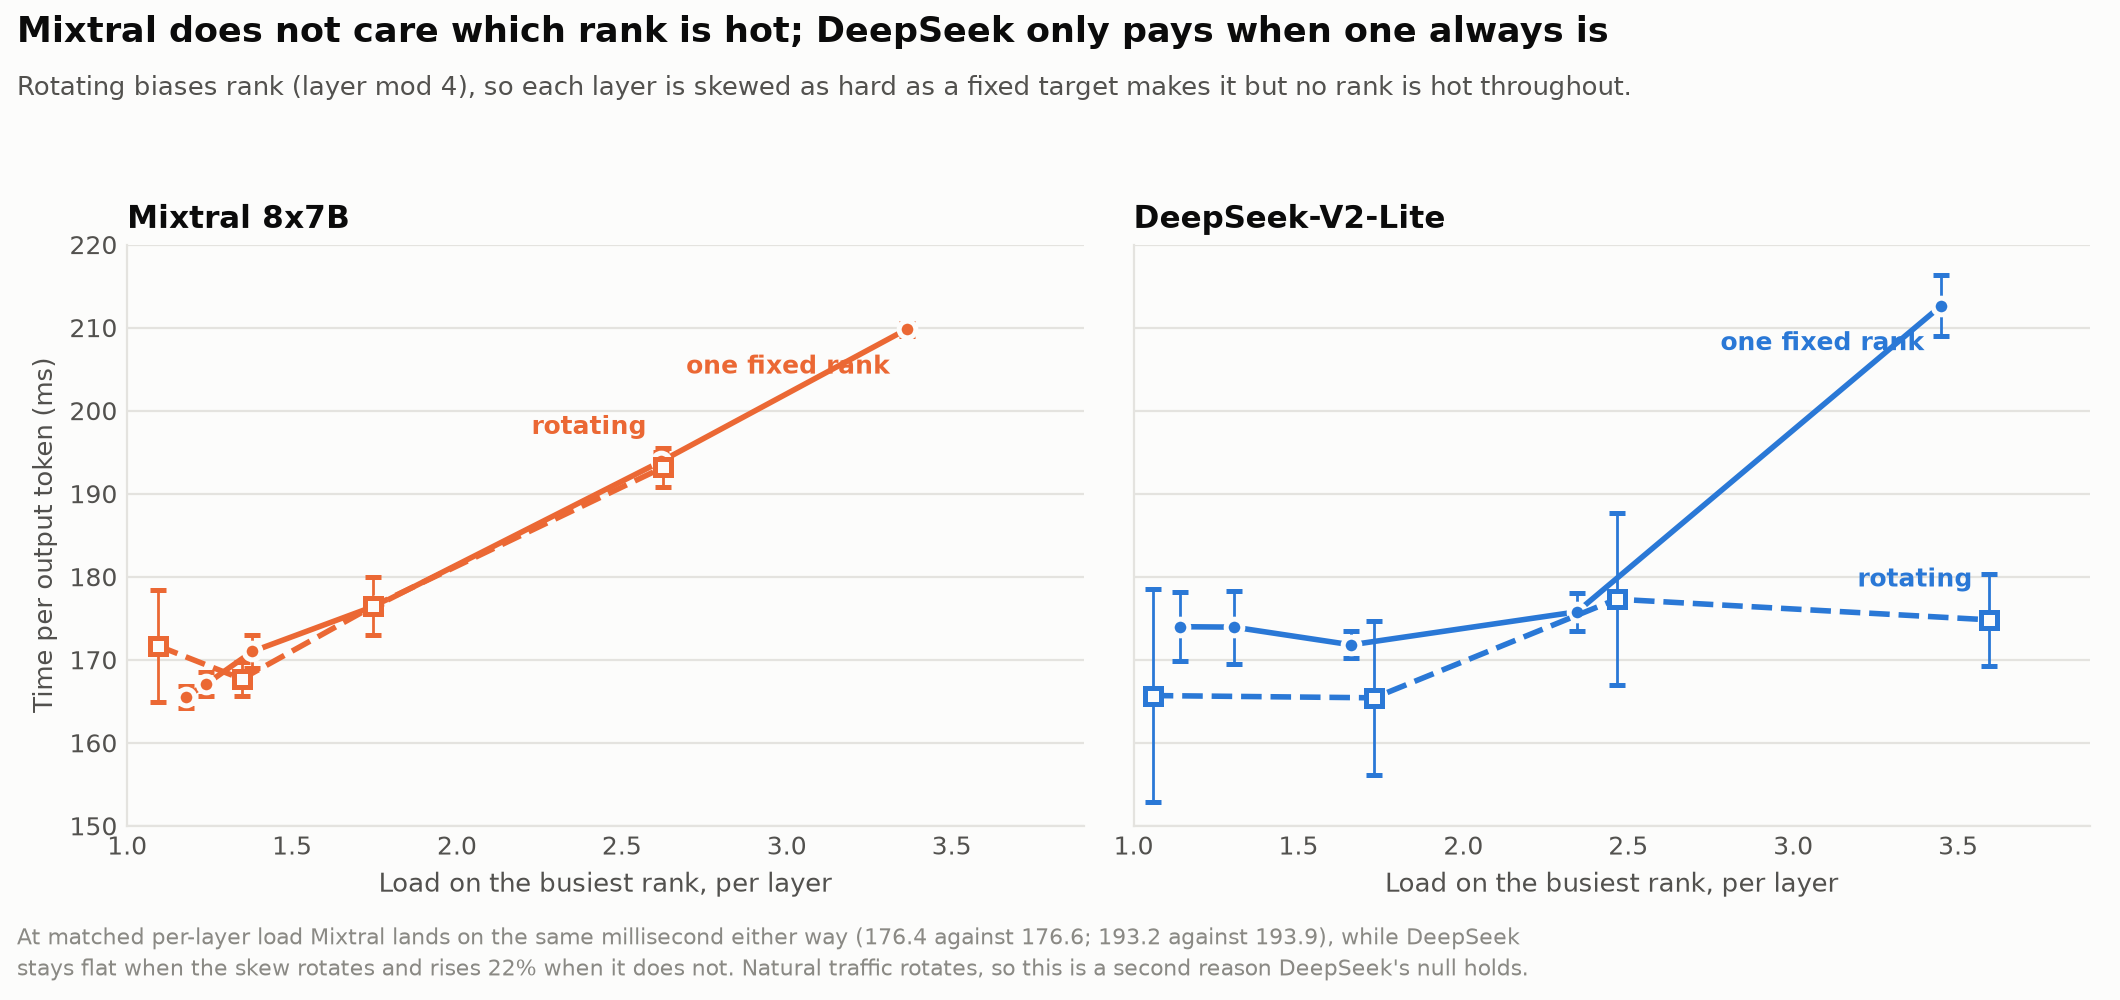
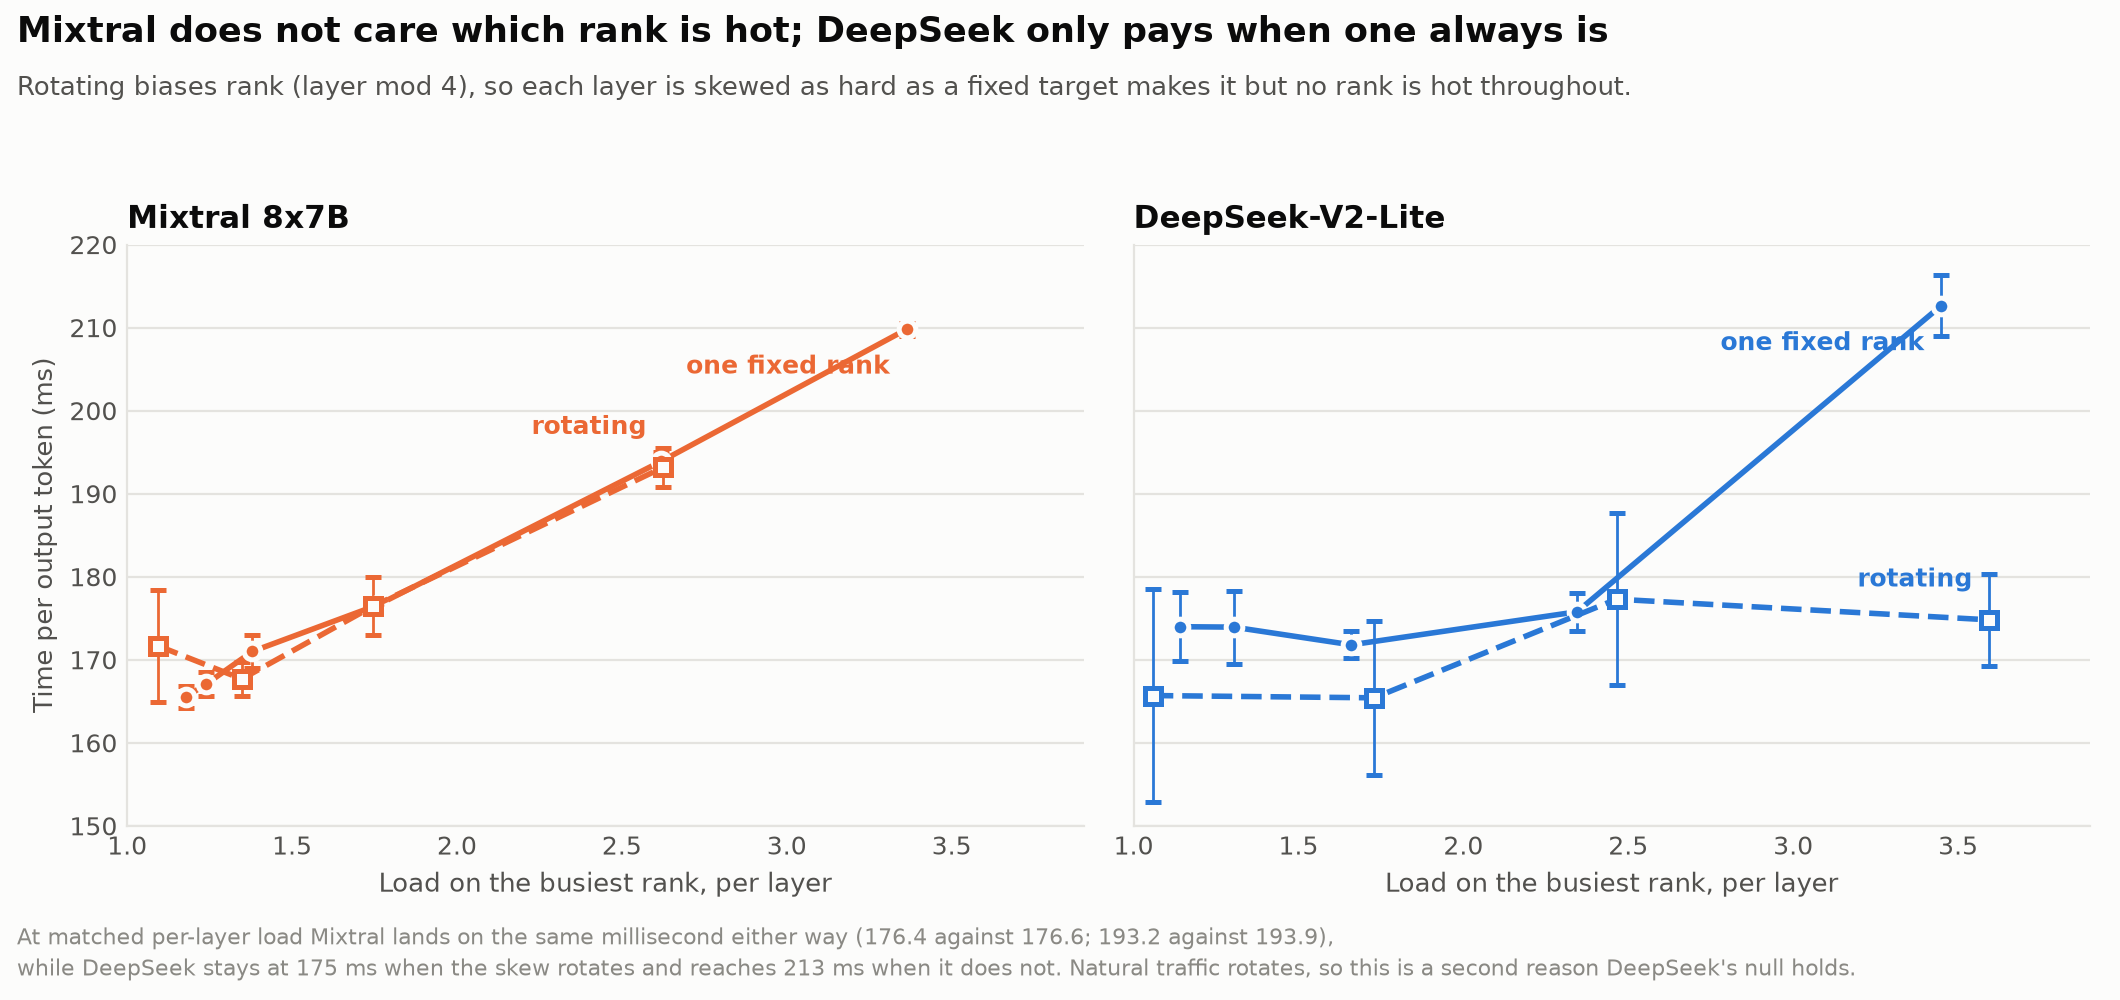
Compute the numbers that were typed into captions and a legend
Auditing the plotting script for hard-coded values after the
natural-traffic row turned out to be invented: layout coordinates and
which runs each panel draws from are fine, but four places carried
measurements as prose, where they could drift from the plot they
describe without anyone noticing.

The instrument figure's legend named the skewed arm's load ("3.5x /
2.6x"); it now reads the calibration, and says 3.4x. The impact-map,
rotating-skew and statistic captions quoted readings that are now
computed from the same rows the figure plots. All four reproduce what was
typed, so nothing was wrong - but a caption that disagrees with its own
plot is worse than no caption, and this removes the way that happens.

Changed region(s): [[0.0, 0.93, 0.8717, 0.992]]

diff --git a/scripts/plot_findings.py b/scripts/plot_findings.py
@@ -238,6 +238,11 @@ def fig_instrument(out, store):
         for p in m["points"]:
             runs.setdefault((model, flag, float(p["value"])), []).append(p["request_summary"]["tpot_ms_mean"])
 
+    cal = calibration()
+    # The legend names the realised load of the skewed arm, which the calibration
+    # measures: typing it would let the legend drift from the experiment.
+    skew_label = "skewed " + " / ".join(
+        f"{cal[m][2.0][0]:.1f}x" for m in ("deepseek-v2", "mixtral") if 2.0 in cal.get(m, {}))
     fig, ax = plt.subplots(figsize=(9.0, 4.6), facecolor=SURFACE)
     style(ax, "", "Time per output token (ms)",
           "Part of the measured cost was our own measurement plugin",
@@ -254,7 +259,7 @@ def fig_instrument(out, store):
             for bi, (v, colour) in enumerate(((lo, COND[0]), (hi, COND[1]))):
                 x = base + (bi - 0.5) * inner
                 ax.bar(x, v.mean(), width, color=colour, zorder=3,
-                       label=("balanced" if bi == 0 else "skewed 3.5x / 2.6x") if (mi, fi) == (0, 0) else None)
+                       label=(("balanced" if bi == 0 else skew_label) if (mi, fi) == (0, 0) else None))
                 ax.errorbar(x, v.mean(), yerr=v.std(ddof=1), color=INK2, lw=1, capsize=3, zorder=4)
                 ax.annotate(f"{v.mean():.0f}", xy=(x, v.mean()), xytext=(0, 8), textcoords="offset points",
                             ha="center", color=INK, fontsize=9.5, fontweight="bold", zorder=5)
@@ -422,6 +427,22 @@ def natural(store):
     store["natural_detail"] = detail
 
 
+def _impact_caption(rows):
+    """The disagreement between DeepSeek's two eager sweeps, read off the plotted points."""
+    pair = [r for r in rows if r["model"] == "deepseek-v2" and r.get("mode") != "graph"]
+    if len(pair) < 2:
+        return "Levels that collapse routing onto fewer live experts are excluded."
+    first, second = (r for r in sorted(pair, key=lambda r: r.get("run") == "second"))
+    shared = sorted(set(first["load"]) & set(second["load"]))
+    if not shared:
+        return "DeepSeek's two eager sweeps cover different loads."
+    at = max(shared, key=lambda v: v if v < 3 else 0)
+    a = first["tpot_pct"][first["load"].index(at)]
+    b = second["tpot_pct"][second["load"].index(at)]
+    return (f"DeepSeek's two eager sweeps disagree at {at:.2f}x: one reads {a:+.0f}%, the other {b:+.0f}%. "
+            "Where its cost begins is unresolved;\nMixtral's rise reproduces.")
+
+
 def fig_impact_map(out, store):
     """What it costs, against where natural traffic falls, on one load axis."""
     cal = calibration()
@@ -521,8 +542,7 @@ def fig_impact_map(out, store):
              "Load: the busiest rank's share of token-expert assignments in each MoE layer, averaged over layers; "
              "4-way contiguous placement.\nNatural ranges: single prompts and random 200-prompt mixes p1-p99, "
              "one-subject windows min-max; dot = median. Levels that collapse routing are excluded.\n"
-             "DeepSeek's two eager sweeps disagree between 2.3x and 3.4x: the filled one reads +1% at 2.35x, "
-             "the hollow one +7%.\nWhere its cost begins is unresolved; Mixtral's rise from 1.3x reproduces.",
+             + _impact_caption(rows),
              color=INK3, fontsize=7.5, va="bottom", linespacing=1.4)
     # Explicit margins: tight_layout cannot place shared axes with long tick labels.
     fig.subplots_adjust(left=0.215, right=0.975, top=0.995 if BARE else 0.875,
@@ -543,6 +563,28 @@ def per_layer_loads(pattern):
             f = json.load(gzip.open(os.path.join(d, p["validation_file"])))
             out[float(p["value"])] = float(np.mean(f["rank_max_over_mean_per_layer"]))
     return out
+
+
+def _rotating_caption(rows):
+    """Mixtral's matched-load pairs and DeepSeek's gap, read off the plotted points."""
+    def series(model, skew):
+        return next((r for r in rows if r["model"] == model and r["skew"] == skew), None)
+
+    pairs = []
+    rot, fixed = series("mixtral", "rotating"), series("mixtral", "one fixed rank")
+    if rot and fixed:
+        for i, load in enumerate(rot["load"]):
+            j = min(range(len(fixed["load"])), key=lambda k: abs(fixed["load"][k] - load))
+            if abs(fixed["load"][j] - load) < 0.05 and load > 1.5:
+                pairs.append(f"{rot['tpot_ms'][i]:.1f} against {fixed['tpot_ms'][j]:.1f}")
+    ds_rot, ds_fixed = series("deepseek-v2", "rotating"), series("deepseek-v2", "one fixed rank")
+    gap = ""
+    if ds_rot and ds_fixed:
+        gap = (f"\nwhile DeepSeek stays at {ds_rot['tpot_ms'][-1]:.0f} ms when the skew rotates and reaches "
+               f"{ds_fixed['tpot_ms'][-1]:.0f} ms when it does not")
+    lead = ("At matched per-layer load Mixtral lands on the same millisecond either way ("
+            + "; ".join(pairs) + ")," if pairs else "At matched per-layer load,")
+    return lead + gap + ". Natural traffic rotates, so this is a second reason DeepSeek's null holds."
 
 
 def fig_rotating(out, store):
@@ -587,9 +629,7 @@ def fig_rotating(out, store):
              "but no rank is hot throughout.",
              color=INK2, fontsize=9.5)
     caption(fig, 0.008, 0.015,
-             "At matched per-layer load Mixtral lands on the same millisecond either way (176.4 against 176.6; "
-             "193.2 against 193.9), while DeepSeek\nstays flat when the skew rotates and rises 22% when it does "
-             "not. Natural traffic rotates, so this is a second reason DeepSeek's null holds.",
+             _rotating_caption(rows),
              color=INK3, fontsize=8, va="bottom", linespacing=1.4)
     fig.tight_layout(rect=frame((0, 0.07, 1, 0.89)))
     fig.savefig(os.path.join(out, "rotating_skew.png"), dpi=200, facecolor=SURFACE)
@@ -685,7 +725,9 @@ def fig_statistic(out, store):
              "Left: a step runs its layers in sequence, so what it waits for is the sum over calls of the "
              "maximum over ranks. Summing each rank first lets a\nbusiest rank that changes between layers "
              "cancel. Right: the same cancellation in the router's counters - and for a skew that rotates "
-             "between layers,\nthe pooled form reads 1.03x, which is what benign traffic reads.",
+             "between layers,\nthe pooled form reads "
+             + (f"{rows['routing'][-1]['pooled']:.2f}x" if rows.get("routing") else "near 1.0x")
+             + ", which is what benign traffic reads.",
              color=INK3, fontsize=8, va="bottom", linespacing=1.4)
     fig.tight_layout(rect=frame((0, 0.08, 1, 0.89)))
     fig.savefig(os.path.join(out, "statistic.png"), dpi=200, facecolor=SURFACE)
